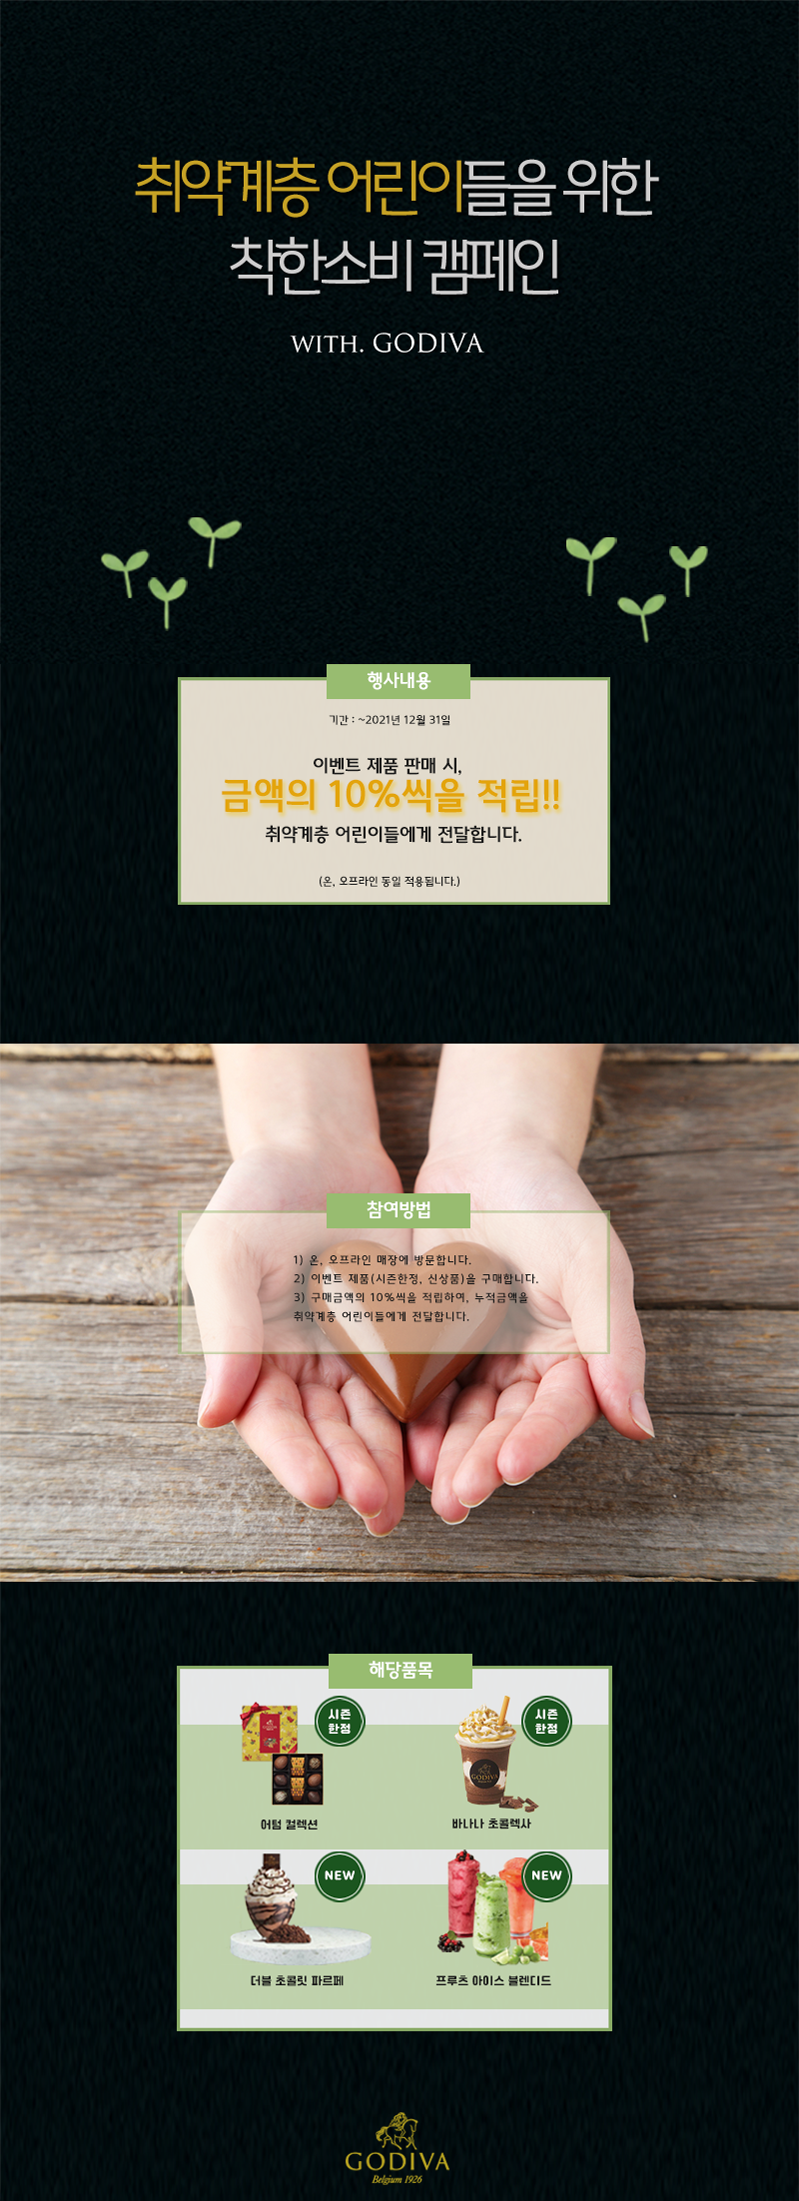
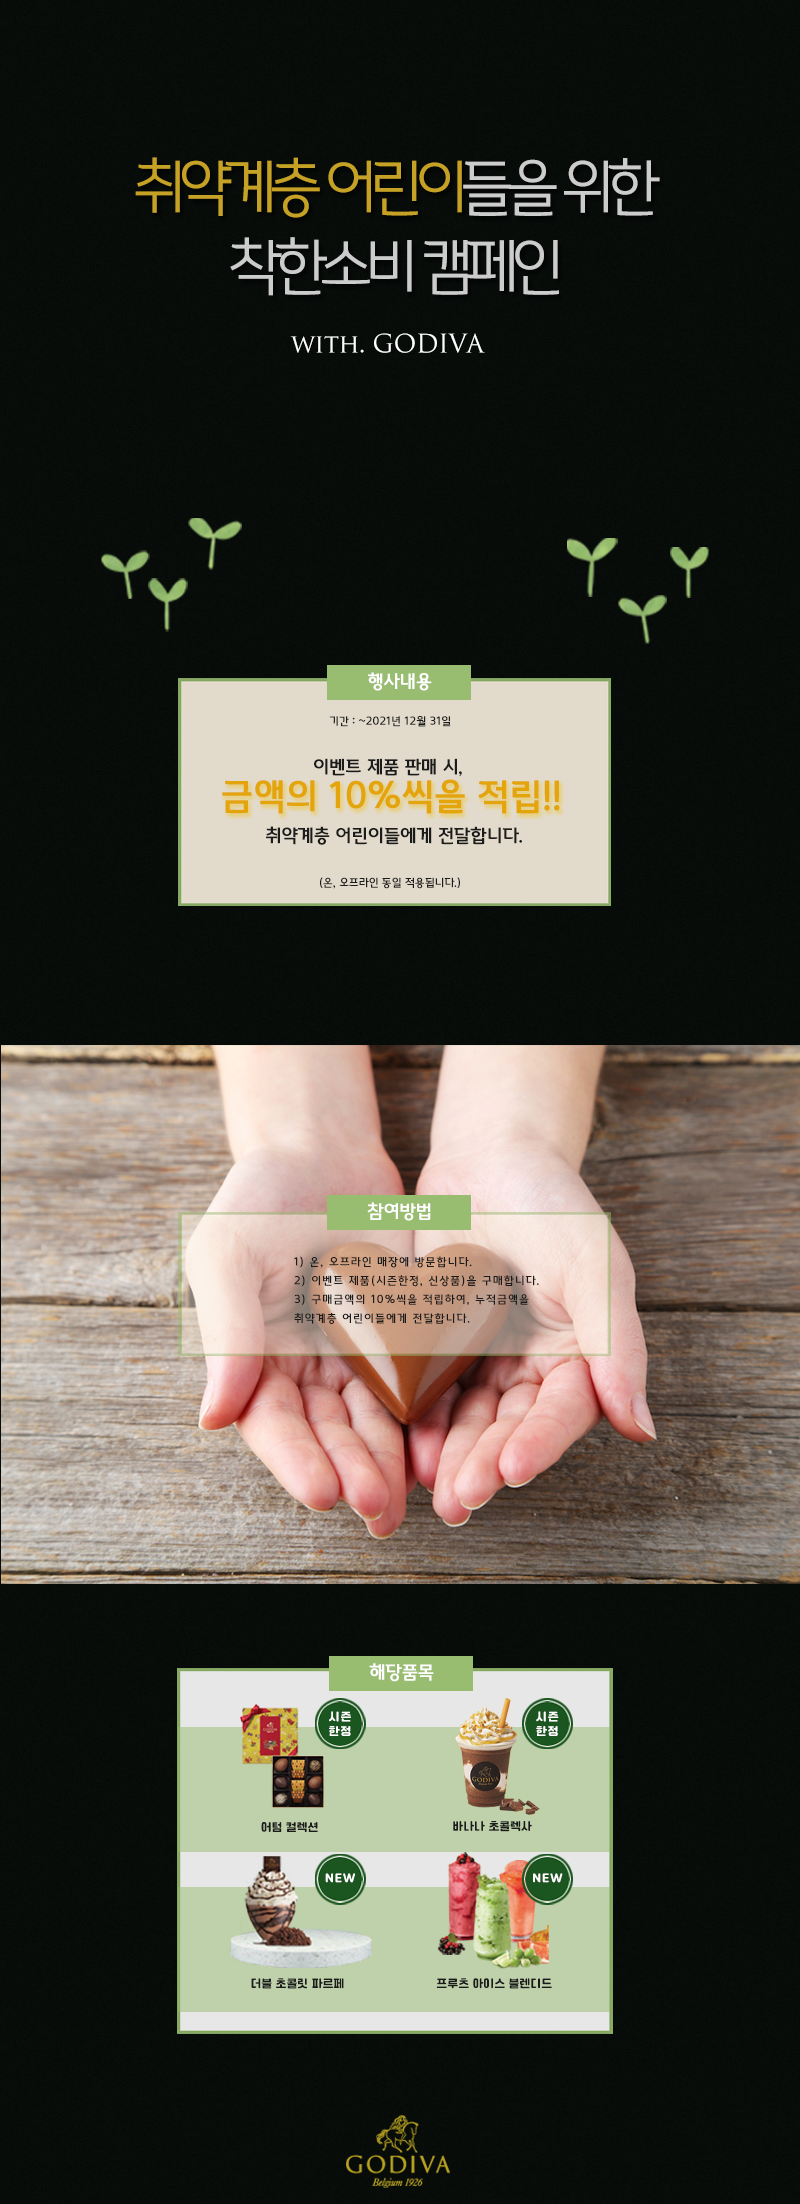
event

Changed region(s): [[0.4806, 0.6179, 0.5106, 0.6488], [0.4205, 0.6179, 0.4506, 0.6488]]

diff --git a/index.html b/index.html
@@ -135,15 +135,21 @@
 			<div class="content_container">
 			
 				<div class="best_01 mar">
-					
+					<div class="best_name">
+						큐브 트뤼프 컬렉션
+					</div>
 				</div>
 				
 				<div class="best_02 mar">
-					
+					<div class="best_name">
+						까레 어쏘트먼트 밀크&다크
+					</div>					
 				</div>
 				
 				<div class="best_03">
-					
+					<div class="best_name">
+						골드 컬렉션
+					</div>					
 				</div>		
 				
 			</div> 
@@ -366,30 +372,6 @@
 		<section class="fixed_content">
 		
 			<div class="quick_side">
-			
-			<!--	<a class="mypage qs" href="#">
-					<span class="p_01 co"><span class="first">M</span>Y PAGE</span>
-					<span class="image"><img src="img/quick_side/mypage.png" alt="icon1"/></span>
-				</a>
-				
-				<a class="cart qs" href="#">
-					<span class="p_02 co"><span class="first">C</span>ART</span>
-					<span class="image"><img src="img/quick_side/cart.png" alt="icon2"/></span>
-				</a>
-				
-				<a class="search qs" href="#">
-					<span class="p_03 co"><span class="first">S</span>EARCH</span>
-					<span class="image"><img src="img/quick_side/search.png" alt="icon3"/></span>					
-				</a>
-				
-				<a class="plus qs" href="#">
-					<span class="image" href="#"><img src="img/quick_side/plus.png" alt="icon4"/></span>
-				</a>
-				
-				<a class="up qs" href="#">
-					<span class="image" href="#"><img src="img/quick_side/up.png" alt="icon5"/></span>
-				</a> -->
-				
 				
 				<div class="hidden_bar">
 				
@@ -412,10 +394,12 @@
 				
 					</div>
 					
-					<a class="plus qs" href="#">
-						<span class="image" href="#"><img src="img/quick_side/plus.png" alt="icon4"/></span>
-					</a>
+					<input id="open_more" type="checkbox"/>
 					
+					<div class="plus_image">
+						<label for="open_more" onclick=""><img src="img/quick_side/plus.png" alt="icon4"/></label>
+					</div>
+				
 					<a class="up qs" href="#">
 						<span class="image" href="#"><img src="img/quick_side/up.png" alt="icon5"/></span>
 					</a>

diff --git a/css/index.css b/css/index.css
@@ -323,11 +323,19 @@
 				overflow: hidden;
 			}
 			
-			.best_01, .best_02, .best_03, .best_04 {
+			.best_01, .best_02, .best_03 {
 				width: 300px;
 				height: 300px;
 				float: left;
 				text-align: center;
+			}
+			
+			.best_name {
+				width: 100%;
+				color: #fff;
+				background: rgba(0,0,0,.5);
+				font-size: 1rem;
+				font-weight: bold;
 			}
 			
 			.content_container .mar {
@@ -984,16 +992,14 @@
 		
 		.quick_side {
 			width: 150px;
-			height: 235px;
 			position: fixed;
-			bottom: 1%;
-			right: 1%;
+			bottom: 20px;
+			right: 20px;
 			z-index: 99999;
 			font-size: 0.75rem;
 			letter-spacing: 0.1em;
 			text-indent: 0.1em;
 			overflow: hidden;
-			padding: 0 15px;
 		}
 		
 		.quick_side a {
@@ -1001,8 +1007,9 @@
 			display: block;
 		}
 		 
-		.quick_side .co:hover {
+		.quick_side .qs:hover {
 			color: #f7e18a;
+			transition-duration: 0.5s;
 		}
 		
 		 .quick_side .first {
@@ -1022,7 +1029,6 @@
 		
 		.quick_side .qs {
 			height: 23px;
-			margin: 20px 0;
 		}
 		
 		.quick_side .co {
@@ -1032,5 +1038,34 @@
 		
 		.plus_icon {
 			background: rgba(0,0,0,.5);
-			
+			padding: 20px;=
+		}
+		
+		.mypage {
+			margin-top: 0;
+		}
+		
+		.cart {
+			margin: 20px 0;
+		}
+		
+		.search {
+			margin-bottom: 0;
+		}
+		
+		#open_more {
+			display: none;
+		}
+		
+		#open_more[type=checkbox]:checked ~.hidden_bar > .plus_icon {
+		}
+		
+		.plus_image {
+			margin: 20px;
+			text-align: right;
+		}
+		
+		
+		.up {
+			margin: 20px;
 		}
